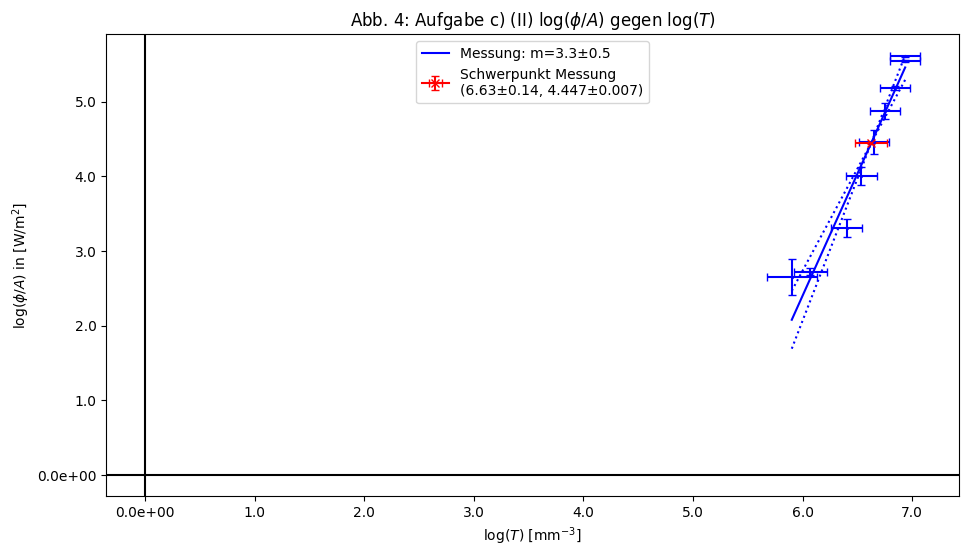
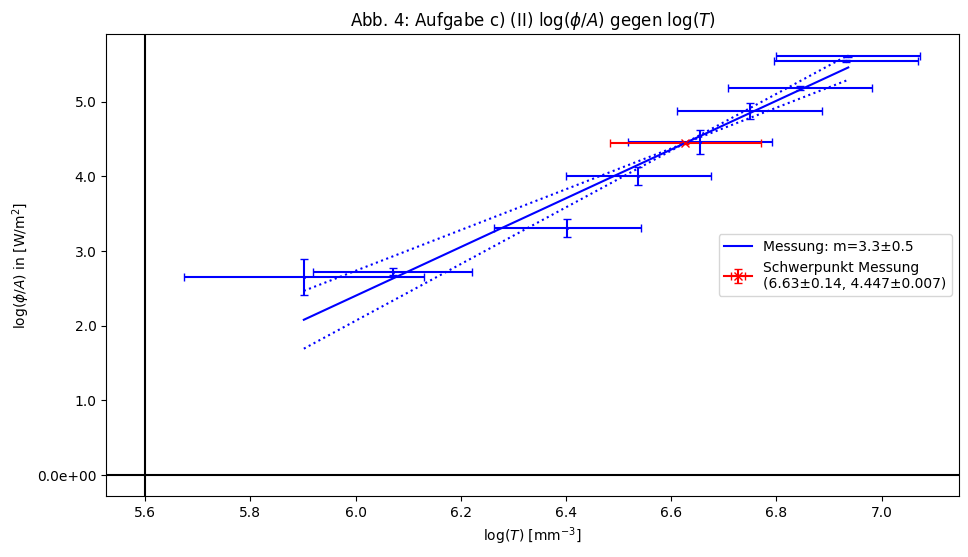
fixxed naming issue

diff --git a/P3/geraden_fit.py b/P3/geraden_fit.py
@@ -120,8 +120,8 @@ def geraden_fit(file_n, config=config_1, **kwargs):
     - Ursprungsgerade (float, optional): Erstellt Ursprungsgerade mit Steigung Ursprungsgerade. Standard: None.
     - Ursprungsgerade_title (str,optional): Bennenug der Ursprungsgeraden in der Legende. Standart: Ursprungsgerade
     - plot_errors (bool, optional): Ob Fehler auch geplotted werden. Standard: True.
-    - x_axis (float, optional): Position der vertikalen Linie bei x=0. Standard: 0.
-    - y_axis (float, optional): Position der horizontalen Linie bei y=0. Standard: 0.
+    - x_axis (float, optional): Position der horizontalen Linie bei y=0. Standard: 0.
+    - y_axis (float, optional): Position der vertikalen Linie bei x=0. Standard: 0.
     - x_major_ticks (float, optional): Abstand zwischen den Hauptticks der X-Achse. Standard: None.
     - x_minor_ticks (float, optional): Abstand zwischen den Nebenticks der X-Achse. Standard: None.
     - y_major_ticks (float, optional): Abstand zwischen den Hauptticks der Y-Achse. Standard: None.
@@ -204,8 +204,8 @@ def geraden_fit(file_n, config=config_1, **kwargs):
     fig, ax = plt.subplots(figsize=(params['length'], params['height']))
     
     # Achsen bei x=0 und y=0 hinzufügen
-    ax.axhline(params['y_axis'], color='black', linewidth=1.5)
-    ax.axvline(params['x_axis'], color='black', linewidth=1.5)
+    ax.axhline(params['x_axis'], color='black', linewidth=1.5)
+    ax.axvline(params['y_axis'], color='black', linewidth=1.5)
     
     # Begrenzter Wertebereich für die Ursprungsgerade initialisieren
     overall_min_x = np.inf
@@ -272,6 +272,9 @@ def geraden_fit(file_n, config=config_1, **kwargs):
             # we use the temporary gradient to calibrate the x_err values to the y_err values. Then we calculate the length of the joint x_err and y_err vector.
             # This is then used in the calculation instead of the y_err values solely. This gives results that regard the errors of both x and y values.
             # The generall procedure is calles minimization of the squares. You can read more about it on this website: https://www.sherrytowers.com/cowan_statistical_data_analysis.pdf
+
+
+            #Theo ist ein k
 
             tempo_grad_y = (mean_calc(x_val_limited * y_val_limited, y_err_limited) - mean_calc(x_val_limited, y_err_limited) * mean_calc(y_val_limited, y_err_limited)) /(mean_calc(np.square(x_val_limited), y_err_limited) - np.square(mean_calc(x_val_limited, y_err_limited)))
             tempo_grad_x = (mean_calc(x_val_limited * y_val_limited, x_err_limited) - mean_calc(x_val_limited, x_err_limited) * mean_calc(y_val_limited, x_err_limited)) /(mean_calc(np.square(x_val_limited), x_err_limited) - np.square(mean_calc(x_val_limited, x_err_limited)))

diff --git a/P3/geraden_fit_config.py b/P3/geraden_fit_config.py
@@ -59,8 +59,8 @@ class GeradeConfig:
             Ursprungsgerade: Creates line through origin with this slope
             Ursprungsgerade_title: Title for line in legend
             plot_errors: Whether to plot errors
-            x_axis: Position of vertical line at x=0
-            y_axis: Position of horizontal line at y=0
+            x_axis: Position of horizontal line at y=0
+            y_axis: Position of vertical line at x=0
             x_major_ticks: Spacing between major x-axis ticks
             x_minor_ticks: Spacing between minor x-axis ticks
             y_major_ticks: Spacing between major y-axis ticks
